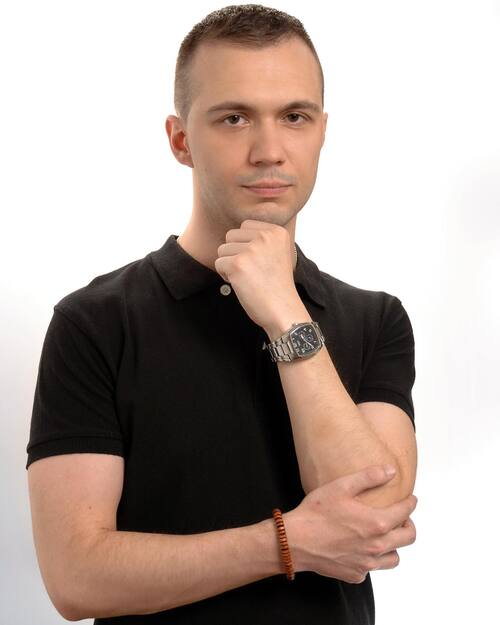
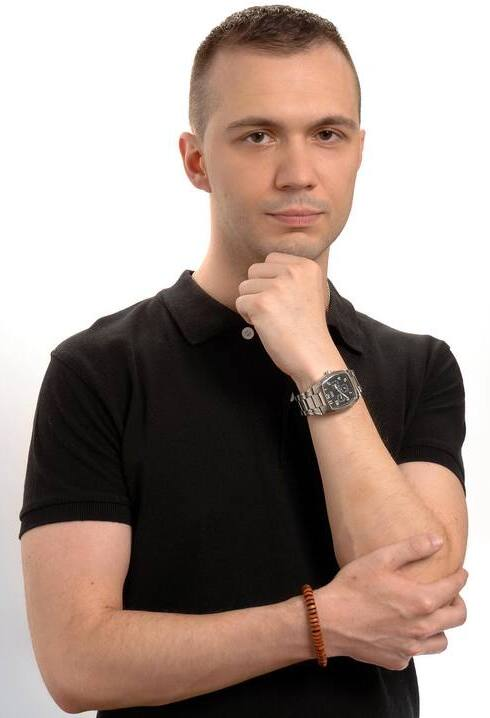
Updates

diff --git a/theme.config.js b/theme.config.js
@@ -132,12 +132,12 @@ export const mdxConfig = {
 
 export const siteMetaData = {
   siteUrl: process.env.NEXT_PUBLIC_SITE_URL || process.env.VERCEL_URL || 'http://localhost:3000',
-  authorName: 'Carl Hanson',
-  siteName: 'Carl Hanson',
+  authorName: 'Ajdin Holjan',
+  siteName: 'Ajdin Holjan',
   defaultTitle: 'Carl Hanson Personal Site',
-  titleTemplate: 'Carl Hanson | %s',
+  titleTemplate: 'Ajdin Holjan | %s',
   description: 'A short description goes here.',
-  email: 'hello@example.com',
+  email: 'aydinholjan@gmail.com',
   locale: 'en_US',
   twitter: {
     handle: '@handle',

diff --git a/content/index.md b/content/index.md
@@ -1,7 +1,7 @@
 ---
 layout: Home
 seo:
-  title: Web Developer
+  title: Full-Stack Developer
   description: Custom description for this page goes here
 ---
 
@@ -9,17 +9,18 @@ seo:
 images:
   - src: /hero.jpg
     alt: my photo
+    width: 490px
   - src: /hero-mobile.jpg
     alt: my photo
 ---
 
 # <Typewriter>Ajdin Holjan</Typewriter>
 
-# *Web Developer* <span>&</span> *Growth Consultant*
+# *Full-Stack Developer*
 
 <Sep size={12} />
 
-I am a front-end developer with over 7 years of experience, driven and eager to learn, focused mainly on building web applications and websites. I have professional hands-on experience working with many different technologies such as Wordpress, JavaScript, React, Vue.js and PHP. I am a team player with strong collaboration skills, who can adapt very quicky and with willingness to learn new technologies.
+I am a full-stack developer with over 7 years of experience, driven and eager to learn, focused mainly on building web applications and websites. I have professional hands-on experience working with many different technologies such as Wordpress, JavaScript, React, Vue.js and PHP. I am a team player with strong collaboration skills, who can adapt very quicky and with willingness to learn new technologies.
 
 
 

diff --git a/content/contact.md b/content/contact.md
@@ -23,9 +23,9 @@ Use the form on this page or get in touch by other means.
 <Sep size="12" />
 
 <small>
-  <Icon src="/icons/call.svg" className="inline mr-2 align-middle fill-current text-omega-500" /> Phone: (888) 777-6666
+  <Icon src="/icons/call.svg" className="inline mr-2 align-middle fill-current text-omega-500" /> Phone: +387 61 381 580
 
-  <Icon src="/icons/mail.svg" className="mr-2 inline align-middle fill-current text-omega-500" /> Email: hello@carl.io
+  <Icon src="/icons/mail.svg" className="mr-2 inline align-middle fill-current text-omega-500" /> Email: aydinholjan@gmail.com
 
   <Icon src="/icons/logo-linkedin.svg" className="mr-2 inline align-middle fill-current text-omega-500" /> Linkedin: [CarlHanson](http://linkedin.com/vercel)
 
